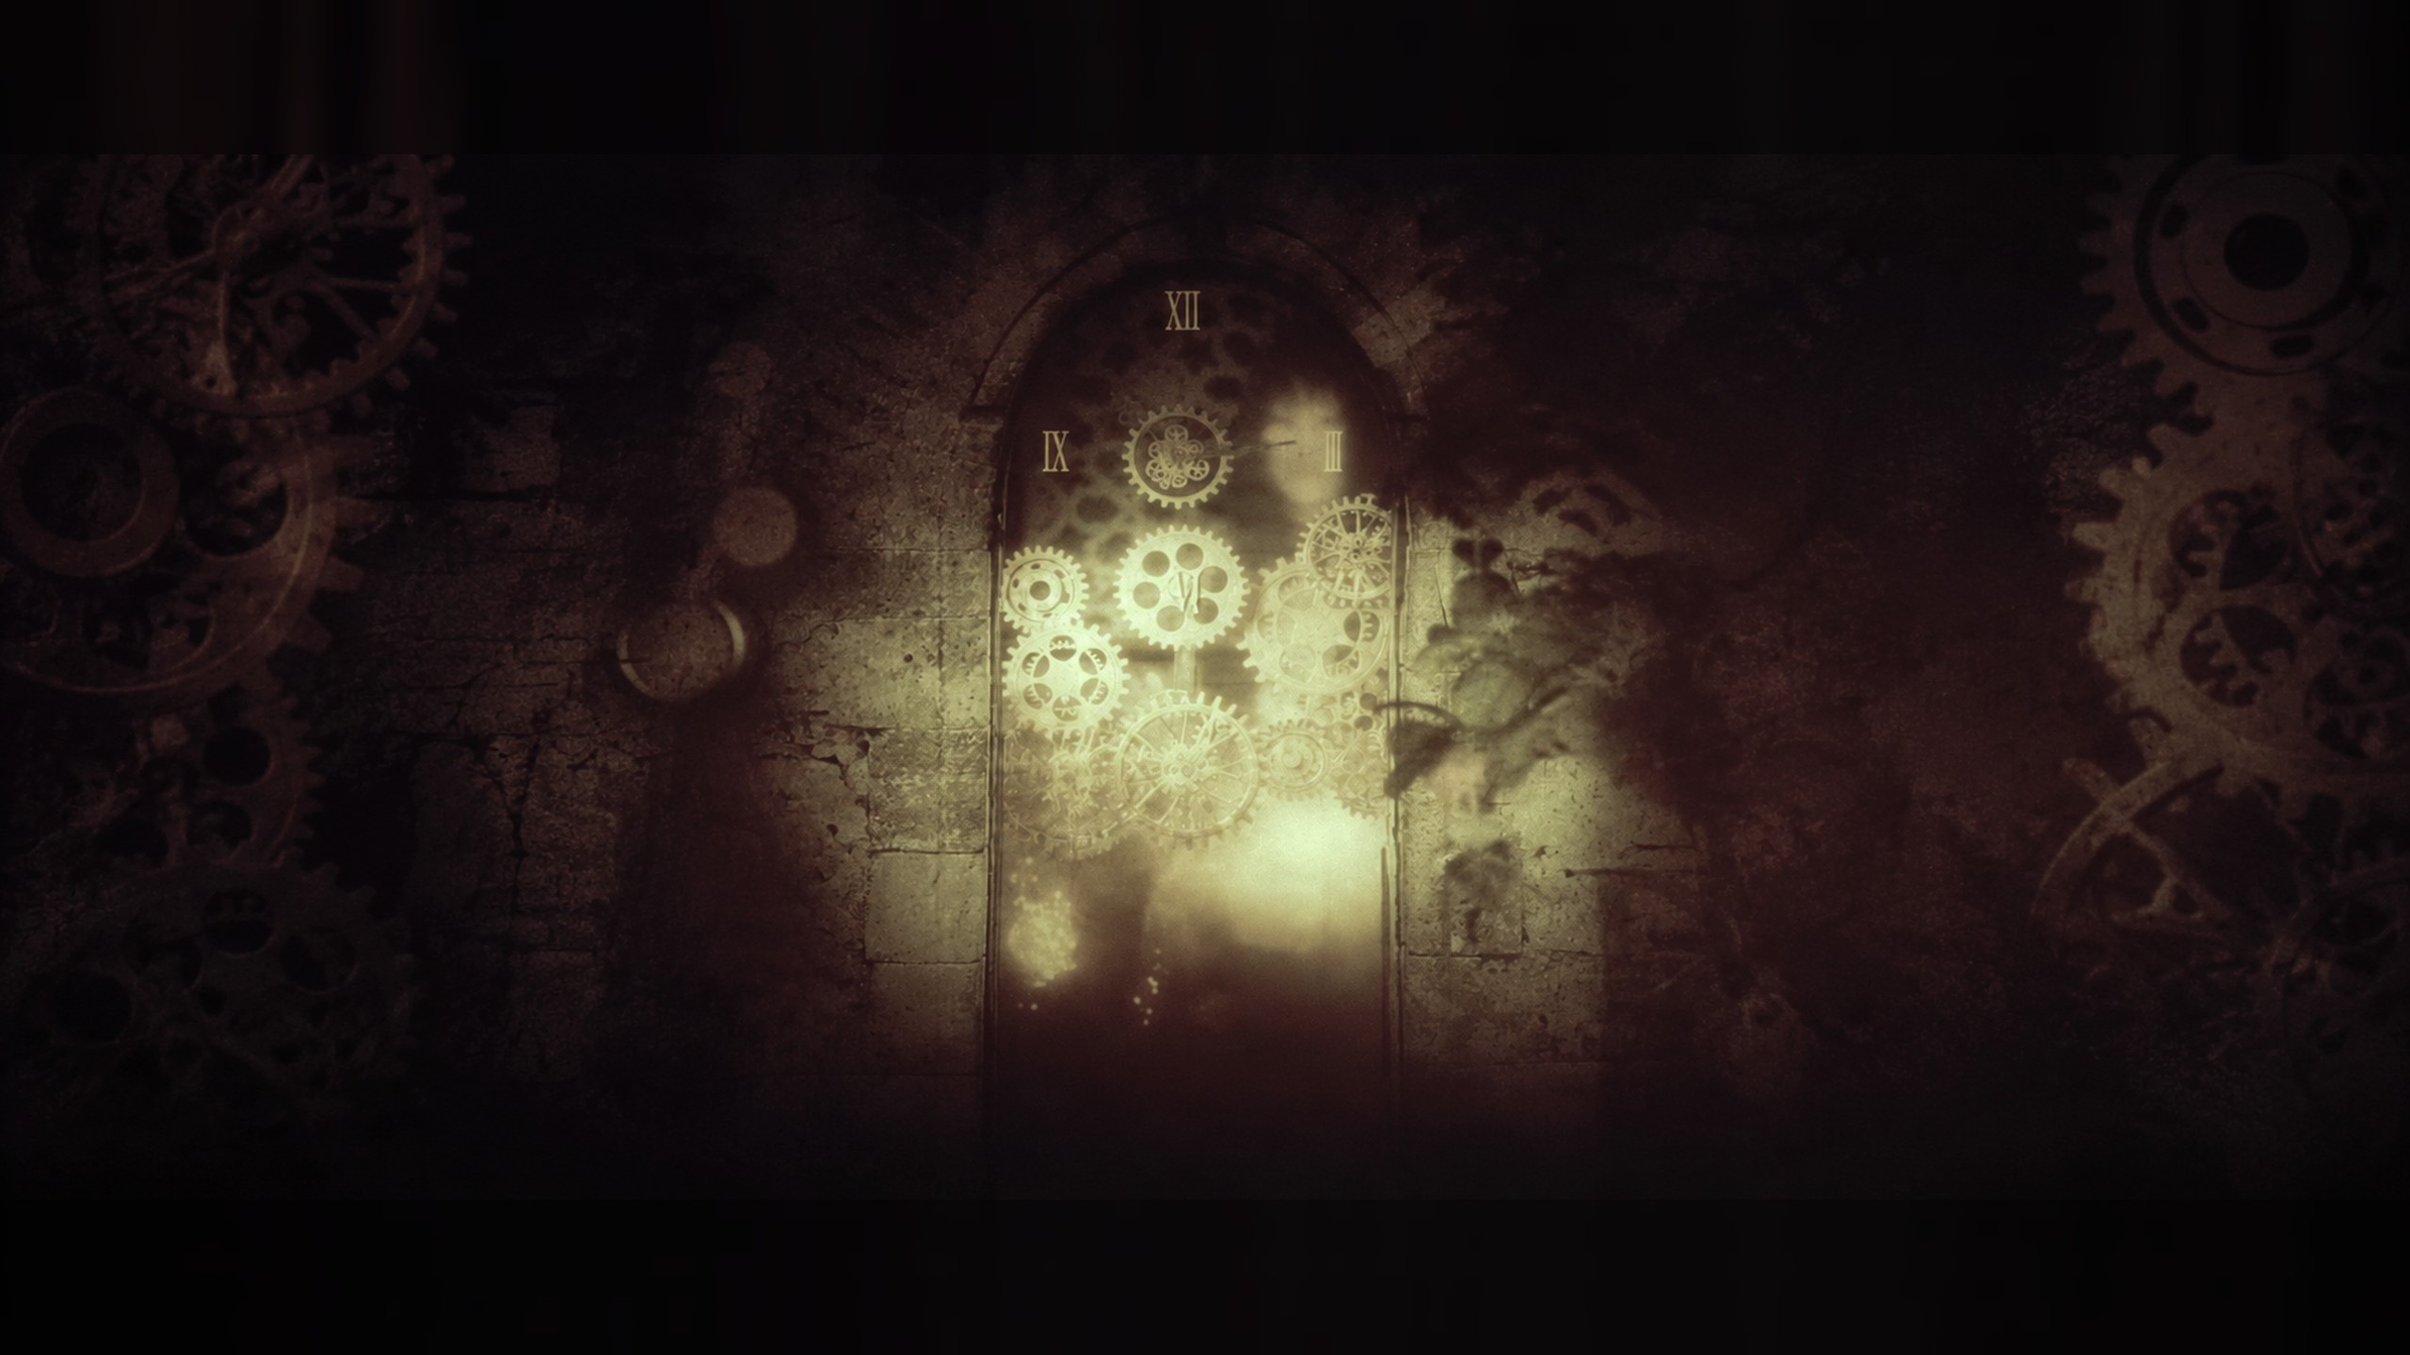
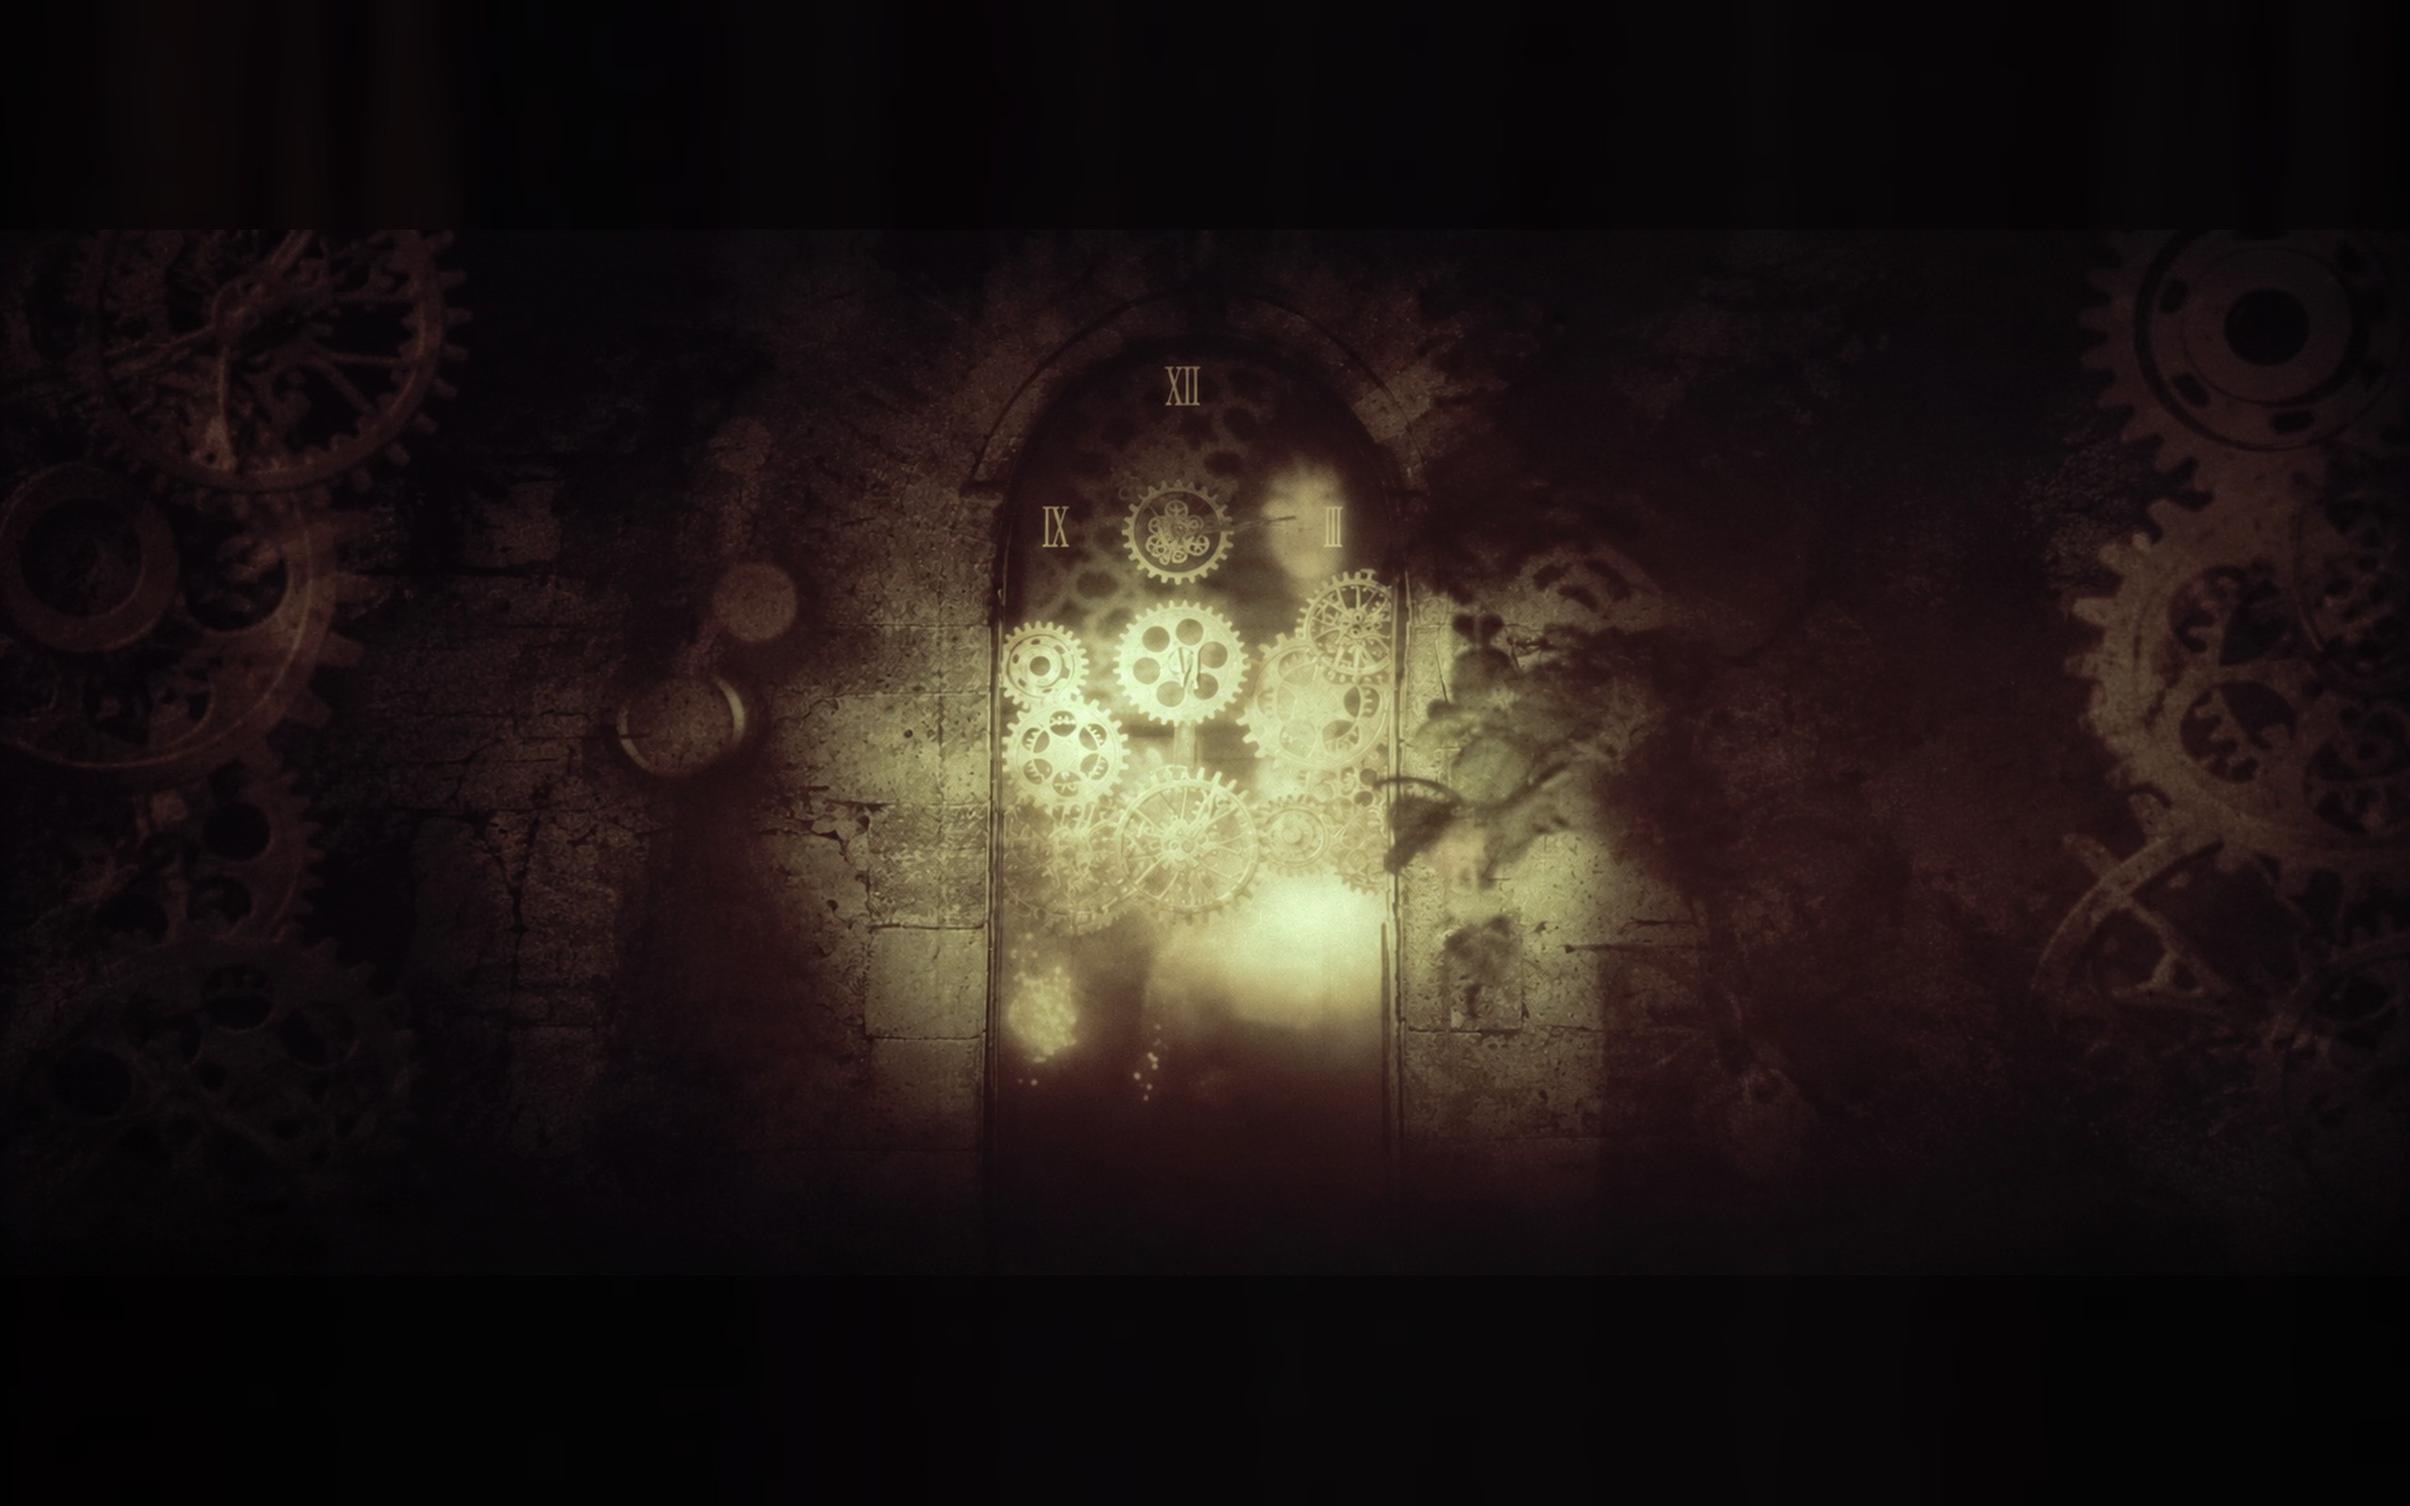
Le fond de « C » reste entier sur toutes les formes d ecran
La toile precedente etait en 16:9 : l image tenait entiere sur un ecran de
cette forme, mais une fenetre plus haute ou plus large en reprenait les
bords. Elle passe en 16:10, la fenetre la plus haute qu on rencontre, avec
la meme image en pleine largeur au milieu. Cover ne rogne plus que le
complement flou, jamais l image.

diff --git a/index.html b/index.html
@@ -13,7 +13,7 @@
 <meta property="og:image" content="assets/cover.jpg">
 <meta property="og:type" content="music.album">
 <meta name="twitter:card" content="summary_large_image">
-<link rel="stylesheet" href="style.css?v=66">
+<link rel="stylesheet" href="style.css?v=67">
 </head>
 <body>
 
@@ -4095,7 +4095,7 @@ var REDUCED = window.matchMedia('(prefers-reduced-motion: reduce)').matches;
     /* le nouvel album n a encore ni films ni photos : sa pochette et le fond
        tire d elle font tout le tour */
     { from:8, gain:.9, meta:'15 tracks',
-      media:[{ src:'assets/bg4.jpg?v=3', th:'assets/alb4.jpg' },
+      media:[{ src:'assets/bg4.jpg?v=4', th:'assets/alb4.jpg' },
              { src:'assets/cover4.jpg', th:'assets/alb4.jpg' }] }
   ];
 

diff --git a/style.css b/style.css
@@ -1288,7 +1288,7 @@ body.alb-crypt .deco{
   display:block;
   position:absolute;inset:0;z-index:0;
   overflow:hidden;
-  background:url("assets/bg4.jpg?v=3") center center / cover no-repeat;
+  background:url("assets/bg4.jpg?v=4") center center / cover no-repeat;
   pointer-events:none;
   opacity:0;transition:opacity 1.4s ease .3s;
   animation:bgdrift 76s ease-in-out infinite alternate;
